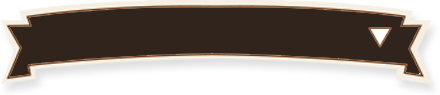
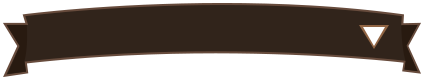
correction bandeau comment ça marche sur homepage

Changed region(s): [[0.0, 0.0, 1.0, 0.975]]

diff --git a/PousseDeBambin/Content/css/howItWorks.less b/PousseDeBambin/Content/css/howItWorks.less
@@ -14,11 +14,11 @@ footer {
 
     .marche {
         background: url('/Content/img/home/bandeau.png') no-repeat;
-        height: 95px;
-        width: 440px;
+        height: 80px;
+        width: 424px;
         display: block;
         margin: 0 auto;
-        padding-top: 18px;
+        padding-top: 15px;
         text-align: center;
         color: #fff;
         font-family: 'marketing_scriptregular';
@@ -118,7 +118,7 @@ footer {
 	color: #fff;
 	text-shadow: 0 1px 0 rgba(0,0,0,.5);
 	text-align: center;
-	margin-bottom: -63px;	
+	margin-bottom: -50px;	
 }
 .scrolling_text ul li a {
 	background: #fff;

diff --git a/PousseDeBambin/Content/css/howItWorks.css b/PousseDeBambin/Content/css/howItWorks.css
@@ -9,11 +9,11 @@ footer .row {
 }
 footer .marche {
   background: url('/Content/img/home/bandeau.png') no-repeat;
-  height: 95px;
-  width: 440px;
+  height: 80px;
+  width: 424px;
   display: block;
   margin: 0 auto;
-  padding-top: 18px;
+  padding-top: 15px;
   text-align: center;
   color: #fff;
   font-family: 'marketing_scriptregular';
@@ -100,7 +100,7 @@ footer .marche {
   color: #fff;
   text-shadow: 0 1px 0 rgba(0, 0, 0, 0.5);
   text-align: center;
-  margin-bottom: -63px;
+  margin-bottom: -50px;
 }
 .scrolling_text ul li a {
   background: #fff;
